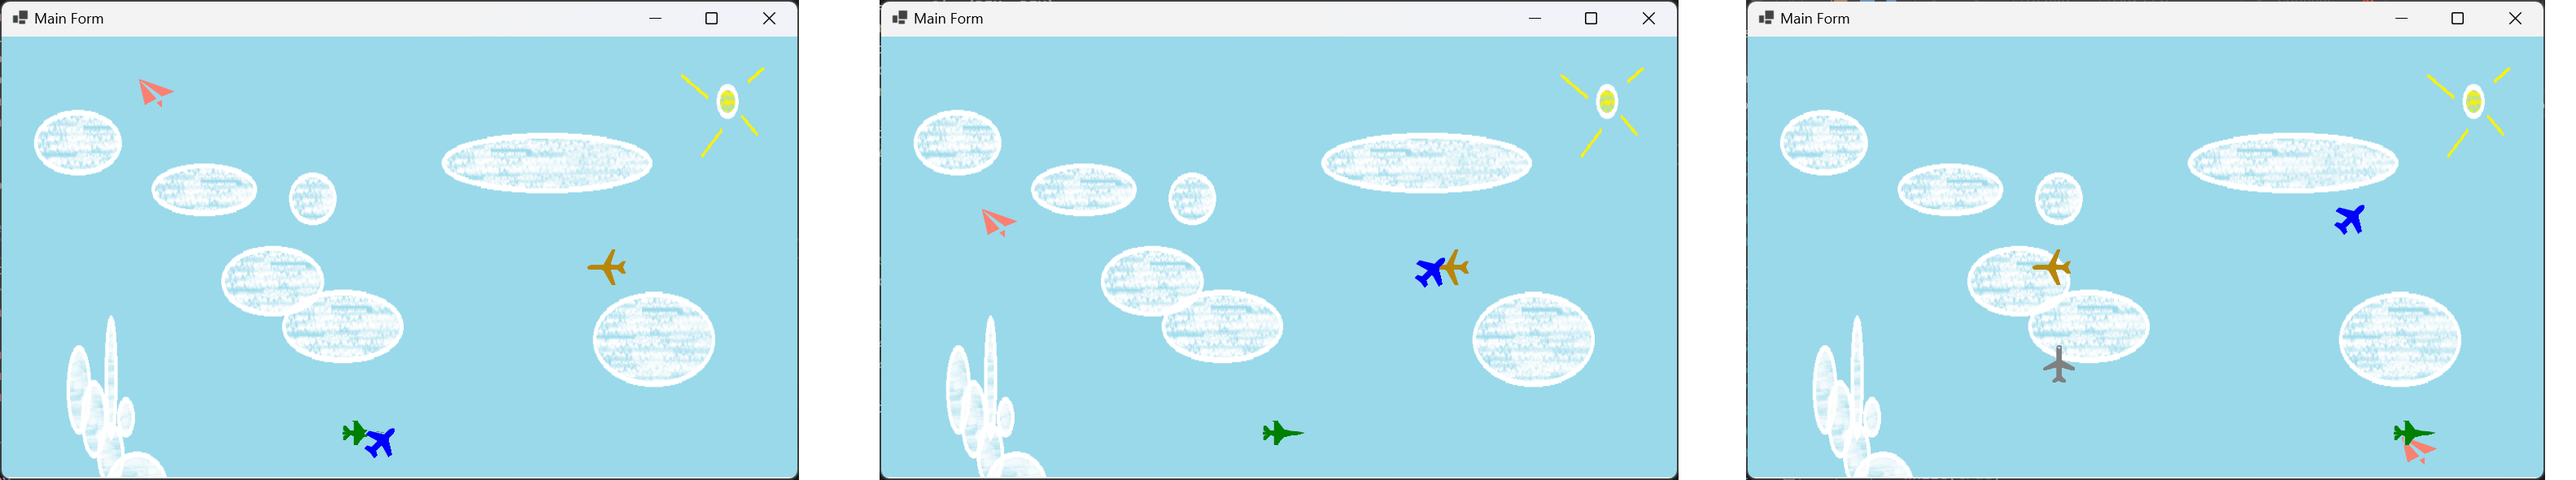
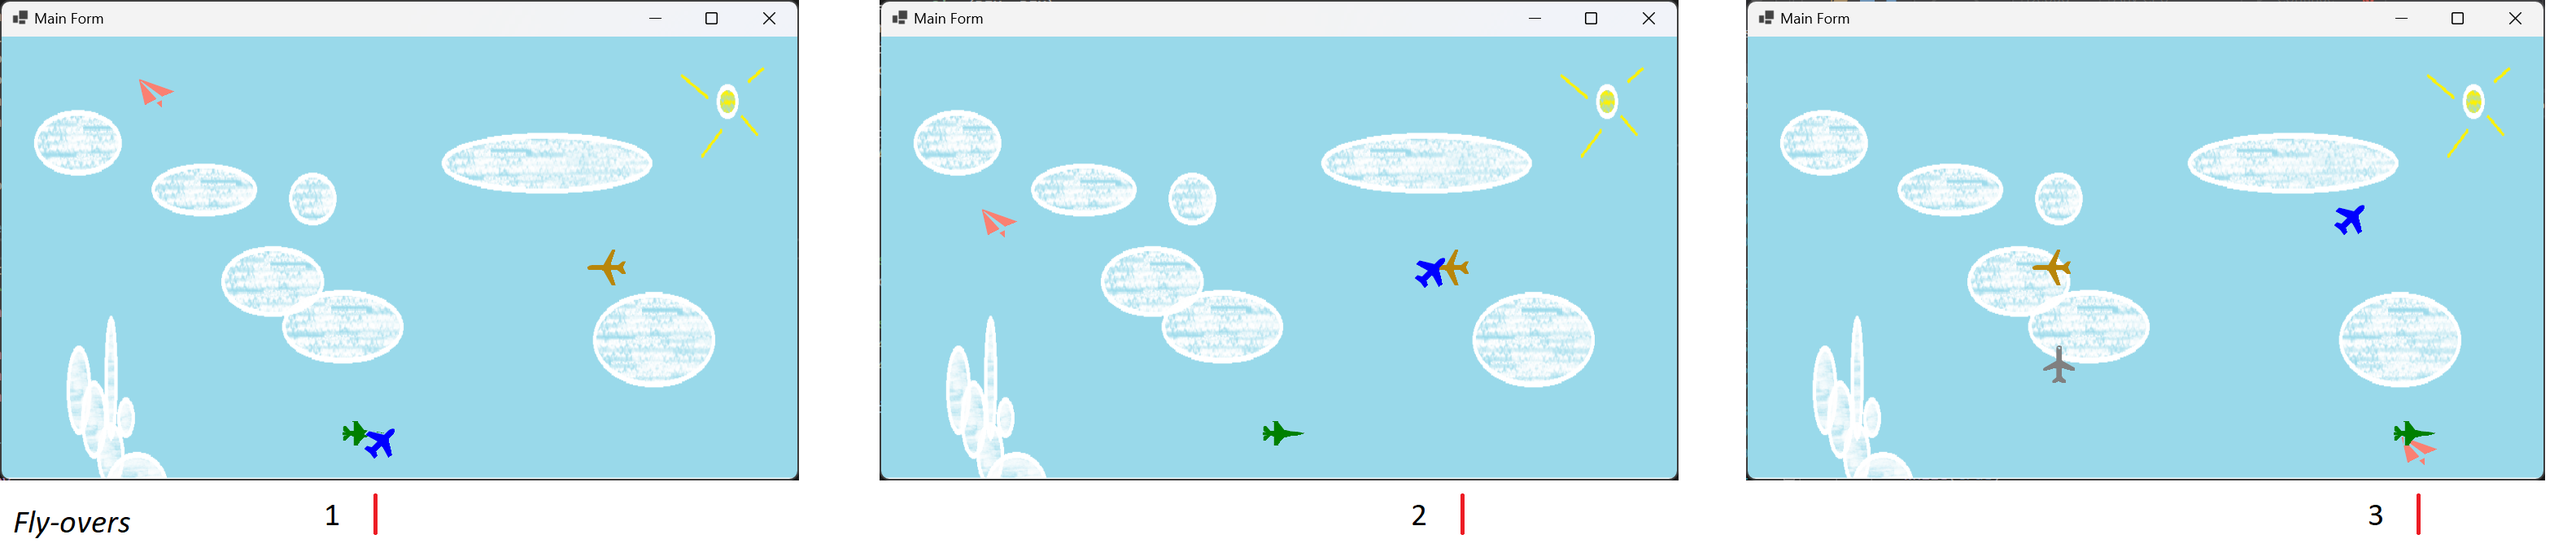
go live

diff --git a/transparent-picture-box-00/MainForm.cs b/transparent-picture-box-00/MainForm.cs
@@ -47,28 +47,7 @@ namespace transparent_picture_box_00
         const int DIM = 60;
         int _planeId = 0;
         private void makePlane(string glyph, Color color, RotateFlipType rotateFlip)
-        {
-            Bitmap image = new Bitmap(DIM, DIM);
-            using (Graphics graphics = Graphics.FromImage(image))
-            using (SolidBrush brush = new SolidBrush(color))
-            {
-                graphics.TextRenderingHint = TextRenderingHint.AntiAliasGridFit;
-                graphics.DrawString(glyph, Glyphs, brush, new PointF());
-            }
-            image.RotateFlip(rotateFlip);
-
-            Region rgn = new Region();
-            rgn.Union(new Rectangle(0, 0, image.Width, image.Height));
-            for (int x = 0; x < image.Width; x++)
-            {
-                for (int y = 0; y < image.Height; y++)
-                {
-                    if (image.GetPixel(x, y).A == 0)
-                    {
-                        rgn.Exclude(new Rectangle(x, y, 1, 1));
-                    }
-                }
-            }
+        {            
             var plane = new PictureBox
             {
                 Name = $"plane{_planeId++}",
@@ -76,9 +55,26 @@ namespace transparent_picture_box_00
                 BorderStyle = BorderStyle.FixedSingle,
                 Location = new Point(_rando.Next(Width), _rando.Next(Height)),
                 BackColor = Color.Transparent,
-                BackgroundImage = image,
+                Region = new Region(new Rectangle(0, 0, DIM, DIM)),
+                Image = new Bitmap(DIM, DIM)
             };
-            plane.Region = rgn;
+
+            using (Graphics graphics = Graphics.FromImage(plane.Image))
+            using (SolidBrush brush = new SolidBrush(color))
+            {
+                graphics.Clear(Color.Transparent);
+                graphics.TextRenderingHint = TextRenderingHint.AntiAliasGridFit;
+                graphics.DrawString(glyph, Glyphs, brush, new PointF());
+            }
+            plane.Image.RotateFlip(rotateFlip);
+
+            for (int x = 0; x < DIM; x++) for (int y = 0; y < DIM; y++)
+            {
+                if (((Bitmap)plane.Image).GetPixel(x, y).A == 0)
+                {
+                    plane.Region.Exclude(new Rectangle(x, y, 1, 1));
+                }
+            }
             Controls.Add(plane);
         }
         Random _rando = new Random(1);
@@ -93,7 +89,7 @@ namespace transparent_picture_box_00
                 {
                     // case 190: await new SemaphoreSlim(0).WaitAsync(); break;
                     // case 400: await new SemaphoreSlim(0).WaitAsync(); break;
-                    case 465: await new SemaphoreSlim(0).WaitAsync(); break;
+                    // case 465: await new SemaphoreSlim(0).WaitAsync(); break;
                 }
                 for (int i = 0; i < 5; i++)
                 {

diff --git a/README.md b/README.md
@@ -1,0 +1,155 @@
+You have described the lack of transparency problem when one airplane `PictureBox` flies over another and this issue was easy to reproduce. The cause is this: The MS [documentation](https://learn.microsoft.com/en-us/dotnet/desktop/winforms/controls/how-to-give-your-control-a-transparent-background) states that "the background of a transparent Windows Forms control is painted by its parent". This would include a background image on the parent but what it _doesn't_ take into account is when another control comes between the parent and the control being drawn.
+
+> Is there a way to fix this?
+
+The answer is Yes and the approach put forward by Idle_Mind can be easily applied to your specific situation. 
+
+[![screenshot][1]][1]
+
+
+Another way of explaining the process is that once the `plane.Image` is assigned we go through it pixel-by-pixel looking at the Alpha Channel (the A of the ARGB color). One could think of this as affecting the opacity of the control, and if its value for a given pixel is zero it is considered transparent. Excluding those transparent pixels from the picture box's `Region` changes the actual shape of the control and drawing no longer occurs at that position.
+
+***
+**Make a single plane PictureBox**
+
+    const int DIM = 60;
+    int _planeId = 0;
+    private void makePlane(string glyph, Color color, RotateFlipType rotateFlip)
+    {            
+        var plane = new PictureBox
+        {
+            Name = $"plane{_planeId++}",
+            Size = new Size(DIM, DIM),
+            BorderStyle = BorderStyle.FixedSingle,
+            // Random starting position
+            Location = new Point(_rando.Next(Width), _rando.Next(Height)),
+            BackColor = Color.Transparent,
+            Region = new Region(new Rectangle(0, 0, DIM, DIM)),
+            Image = new Bitmap(DIM, DIM)
+        };
+        // For purposes of testing, this draws a plane glyph on a transparent canvas.
+        using (Graphics graphics = Graphics.FromImage(plane.Image))
+        using (SolidBrush brush = new SolidBrush(color))
+        {
+            graphics.Clear(Color.Transparent);
+            graphics.TextRenderingHint = TextRenderingHint.AntiAliasGridFit;
+            graphics.DrawString(glyph, Glyphs, brush, new PointF());
+        }
+        // Point the plane in the direction it's going to fly
+        plane.Image.RotateFlip(rotateFlip);
+        // Change the actual shape of the picture box so that it 
+        // no longer includes pixels designated as transparent.
+
+        for (int x = 0; x < DIM; x++) for (int y = 0; y < DIM; y++)
+        {
+            if (((Bitmap)plane.Image).GetPixel(x, y).A == 0)
+            {
+                plane.Region.Exclude(new Rectangle(x, y, 1, 1));
+            }
+        }
+        Controls.Add(plane);
+    }
+    // Seeded random for repeatability for testing.
+    Random _rando = new Random(1);
+
+***
+**Testing**
+
+This minimal code for main form makes 5 planes then executes an async loop to fly them by calling extension methods on the current location corresponding to the intended direction.
+
+    public partial class MainForm : Form
+    {
+        public MainForm()=> InitializeComponent();
+        protected override void OnLoad(EventArgs e)
+        {
+            base.OnLoad(e);
+            DoubleBuffered = true;
+            #region G L Y P H
+            var path = Path.Combine(
+                AppDomain.CurrentDomain.BaseDirectory,
+                "Fonts",
+                "glyphs.ttf");
+            privateFontCollection.AddFontFile(path);
+            var fontFamily = privateFontCollection.Families[0];
+            Glyphs = new Font(fontFamily, 24F);
+            #endregion G L Y P H
+
+            BackgroundImageLayout = ImageLayout.Stretch;
+            makePlanes();
+            _ = execFlyPlanes();
+        }
+        public static Font Glyphs { get; private set; }
+        PrivateFontCollection privateFontCollection = new PrivateFontCollection();
+
+        private void makePlanes()
+        {
+            makePlane(glyph: "\uE800", Color.Blue, rotateFlip: RotateFlipType.RotateNoneFlipNone);
+            makePlane(glyph: "\uE801", Color.Green, rotateFlip: RotateFlipType.RotateNoneFlipNone);
+            makePlane(glyph: "\uE802", Color.DarkGoldenrod, rotateFlip: RotateFlipType.RotateNoneFlipX);
+            makePlane(glyph: "\uE803", Color.Gray, rotateFlip: RotateFlipType.RotateNoneFlipNone);
+            makePlane(glyph: "\uE804", Color.Salmon, rotateFlip: RotateFlipType.RotateNoneFlipX);
+        }
+
+        private async Task execFlyPlanes()
+        {
+            while(true)
+            {
+                for (int i = 0; i < 5; i++)
+                {
+                    try
+                    {
+                        var plane = Controls[$"plane{i}"];
+                        if (plane != null)
+                        {
+                            switch (i)
+                            {
+                                case 0: plane.Location = plane.Location.FlyNE(1, Size); break;
+                                case 1: plane.Location = plane.Location.FlyE(5, Size); break;
+                                case 2: plane.Location = plane.Location.FlyW(5, Size); break;
+                                case 3: plane.Location = plane.Location.FlyN(3, Size); break;
+                                case 4:; plane.Location = plane.Location.FlyNW(5, Size); break; 
+                                default:
+                                    throw new NotImplementedException();
+                            }
+                        }
+                    }
+                    catch { }
+                    await Task.Delay(1);
+                }
+            }
+        }
+        .
+        .
+        .
+        // makePlane{...}
+    }
+
+***
+**Extension methods for `Point`**
+
+Get the next location for plane based on the vector and ensure that the new location results in a visible location on the main canvas.
+
+    static class Extensions
+    {
+        public static Point FlyN(this Point point, int distance, Size canvas) =>
+            new Point(point.X, point.Y - distance).ensureCanvas(canvas);
+        public static Point FlyNE(this Point point, int distance, Size canvas) =>
+            new Point(point.X + distance, point.Y - distance).ensureCanvas(canvas);
+        public static Point FlyNW(this Point point, int distance, Size canvas) =>
+            new Point(point.X - distance, point.Y - distance).ensureCanvas(canvas);
+        public static Point FlyE(this Point point, int distance, Size canvas) =>
+            new Point(point.X + distance, point.Y).ensureCanvas(canvas);
+        public static Point FlyW(this Point point, int distance, Size canvas) =>
+            new Point(point.X - distance, point.Y).ensureCanvas(canvas);
+        private static Point ensureCanvas(this Point point, Size canvas)
+        {
+            if (point.X < 0) point.X = canvas.Width;
+            else if (point.X >= canvas.Width) point.X = 0;
+            if (point.Y < 0) point.Y = canvas.Height;
+            else if (point.Y >= canvas.Height) point.Y = 0;
+            return point;
+        }
+    }
+
+
+  [1]: https://i.stack.imgur.com/j23sV.png
